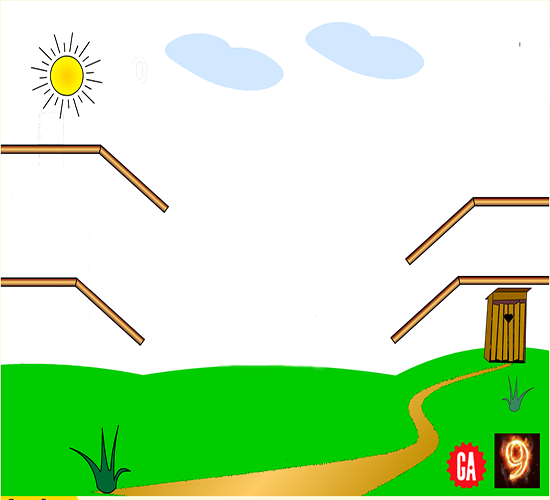
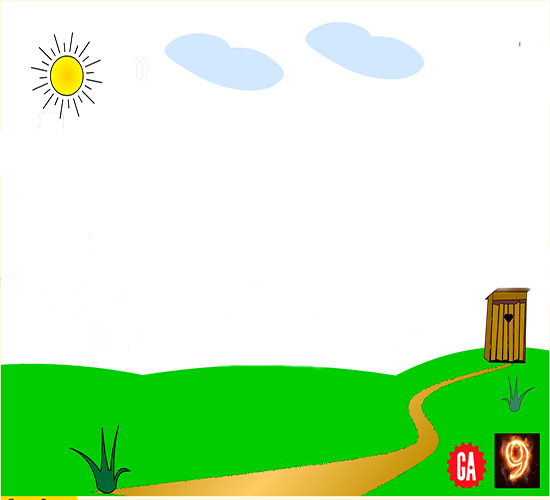
fixed wolf and branch with css

diff --git a/css/main.css b/css/main.css
@@ -13,6 +13,13 @@ header {
   margin-top: 10px;
 }
 
+#egg-first img {
+  height: 20px;
+  width: 30px;
+  margin-top: 20px;
+  margin-left: 5px;
+}
+
 #game {
   background-image: url("../img/background.png");
   background-repeat: no-repeat;
@@ -21,14 +28,25 @@ header {
   width: 600px;
   margin: auto;
   height: 510px;
+  position: relative;
 }
 
-#game img {
+#wolf {
   height: 200px;
-  position: relative;
+  position: absolute;
   top: 212px;
   left: 200px;
 }
+
+.branch {
+  position: absolute;
+  width: 180px;
+}
+
+#branch-LU {
+  top: 137px;
+}
+
 
 footer {
   font-size: 20px;

diff --git a/index.html b/index.html
@@ -17,8 +17,11 @@
       Wolf Loves Eggs
       <button class="btn btn-info pull-right" type="submit" id="start">Start Game</button>
     </header>
-
+    <div id="fisr-egg">
+     <img id="egg-first" src="img/egg-first.png" width="25px" height="15px">
+     </div>
     <div id="game">
+      <img id="branch-LU" class="branch" src="img/tree-L.png">
       <img id="wolf" src="img/lu.png">
     </div>
 
